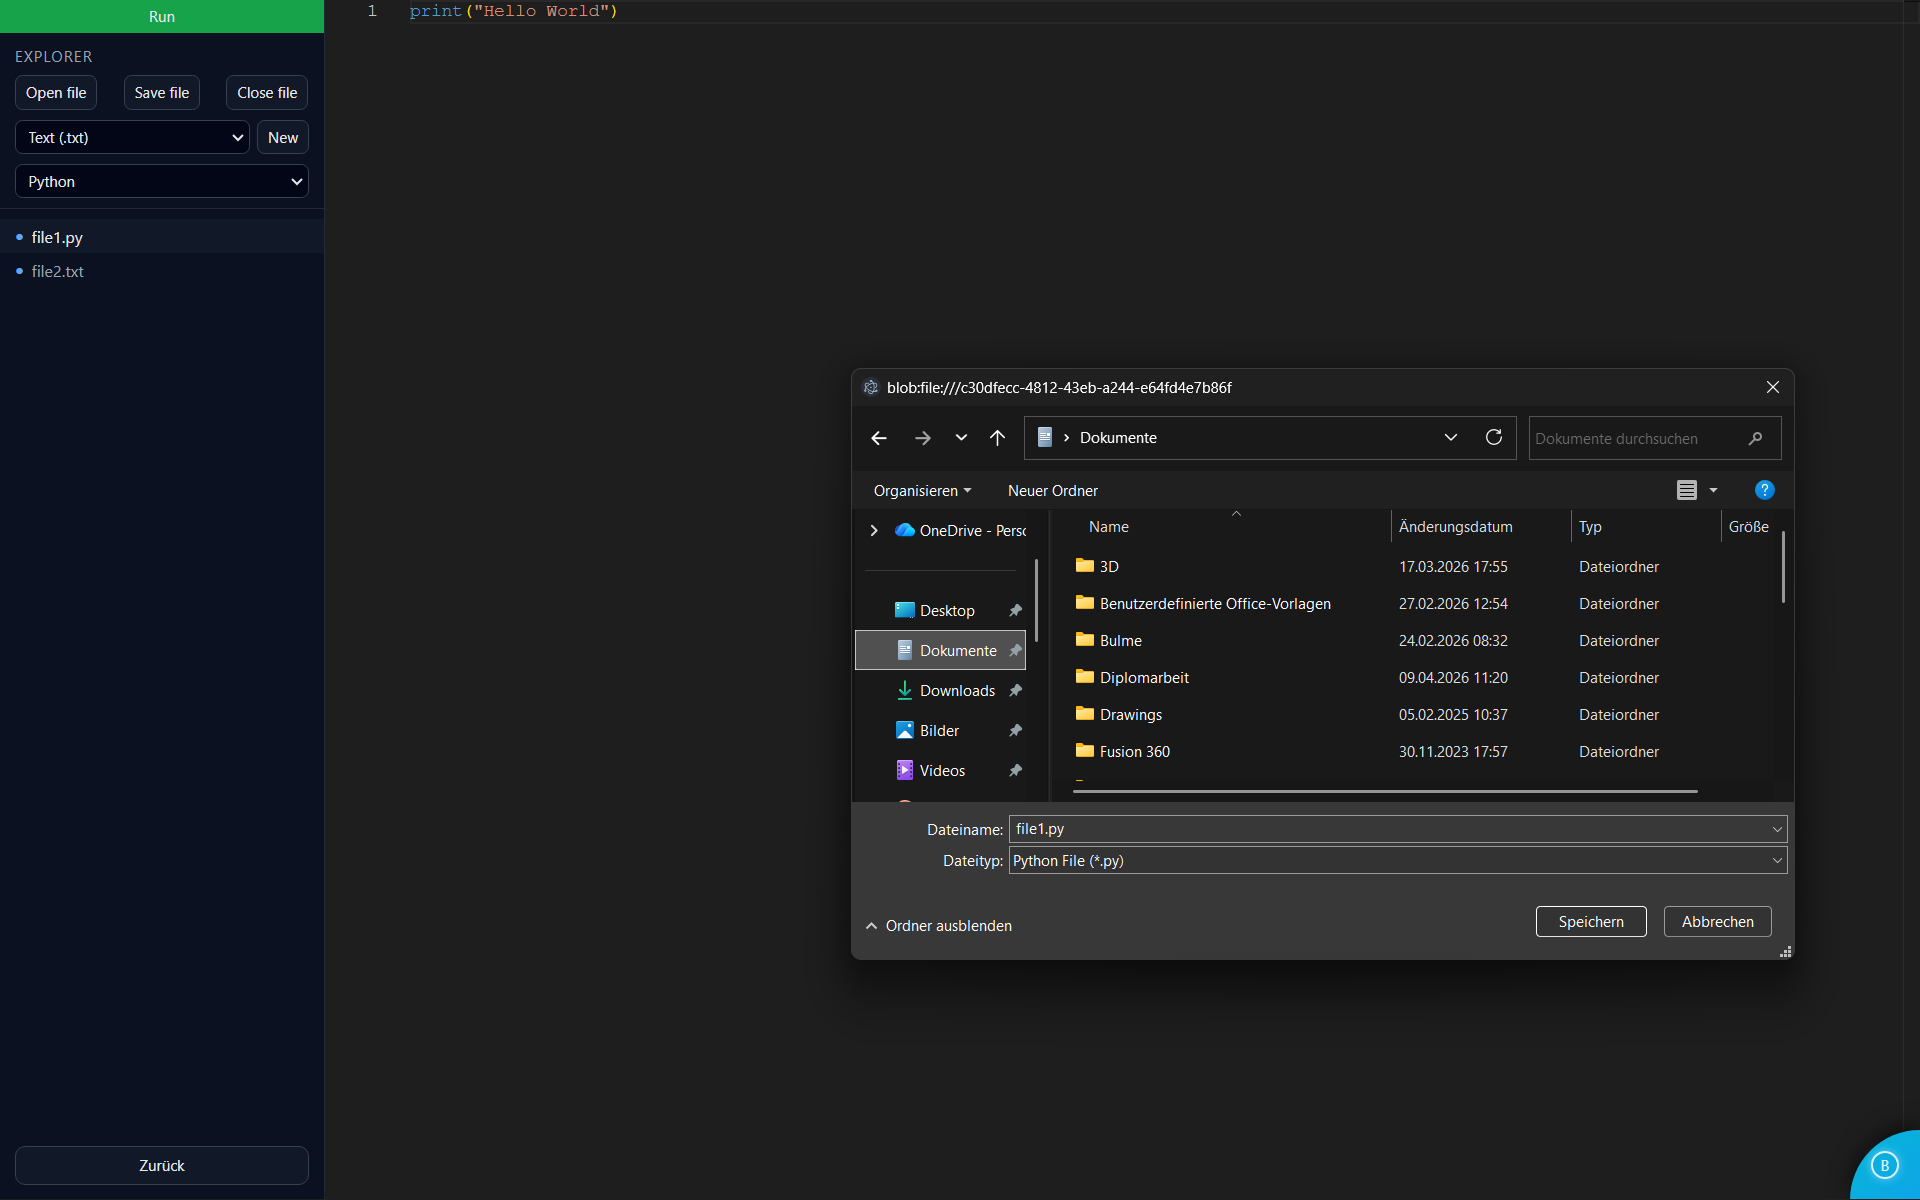
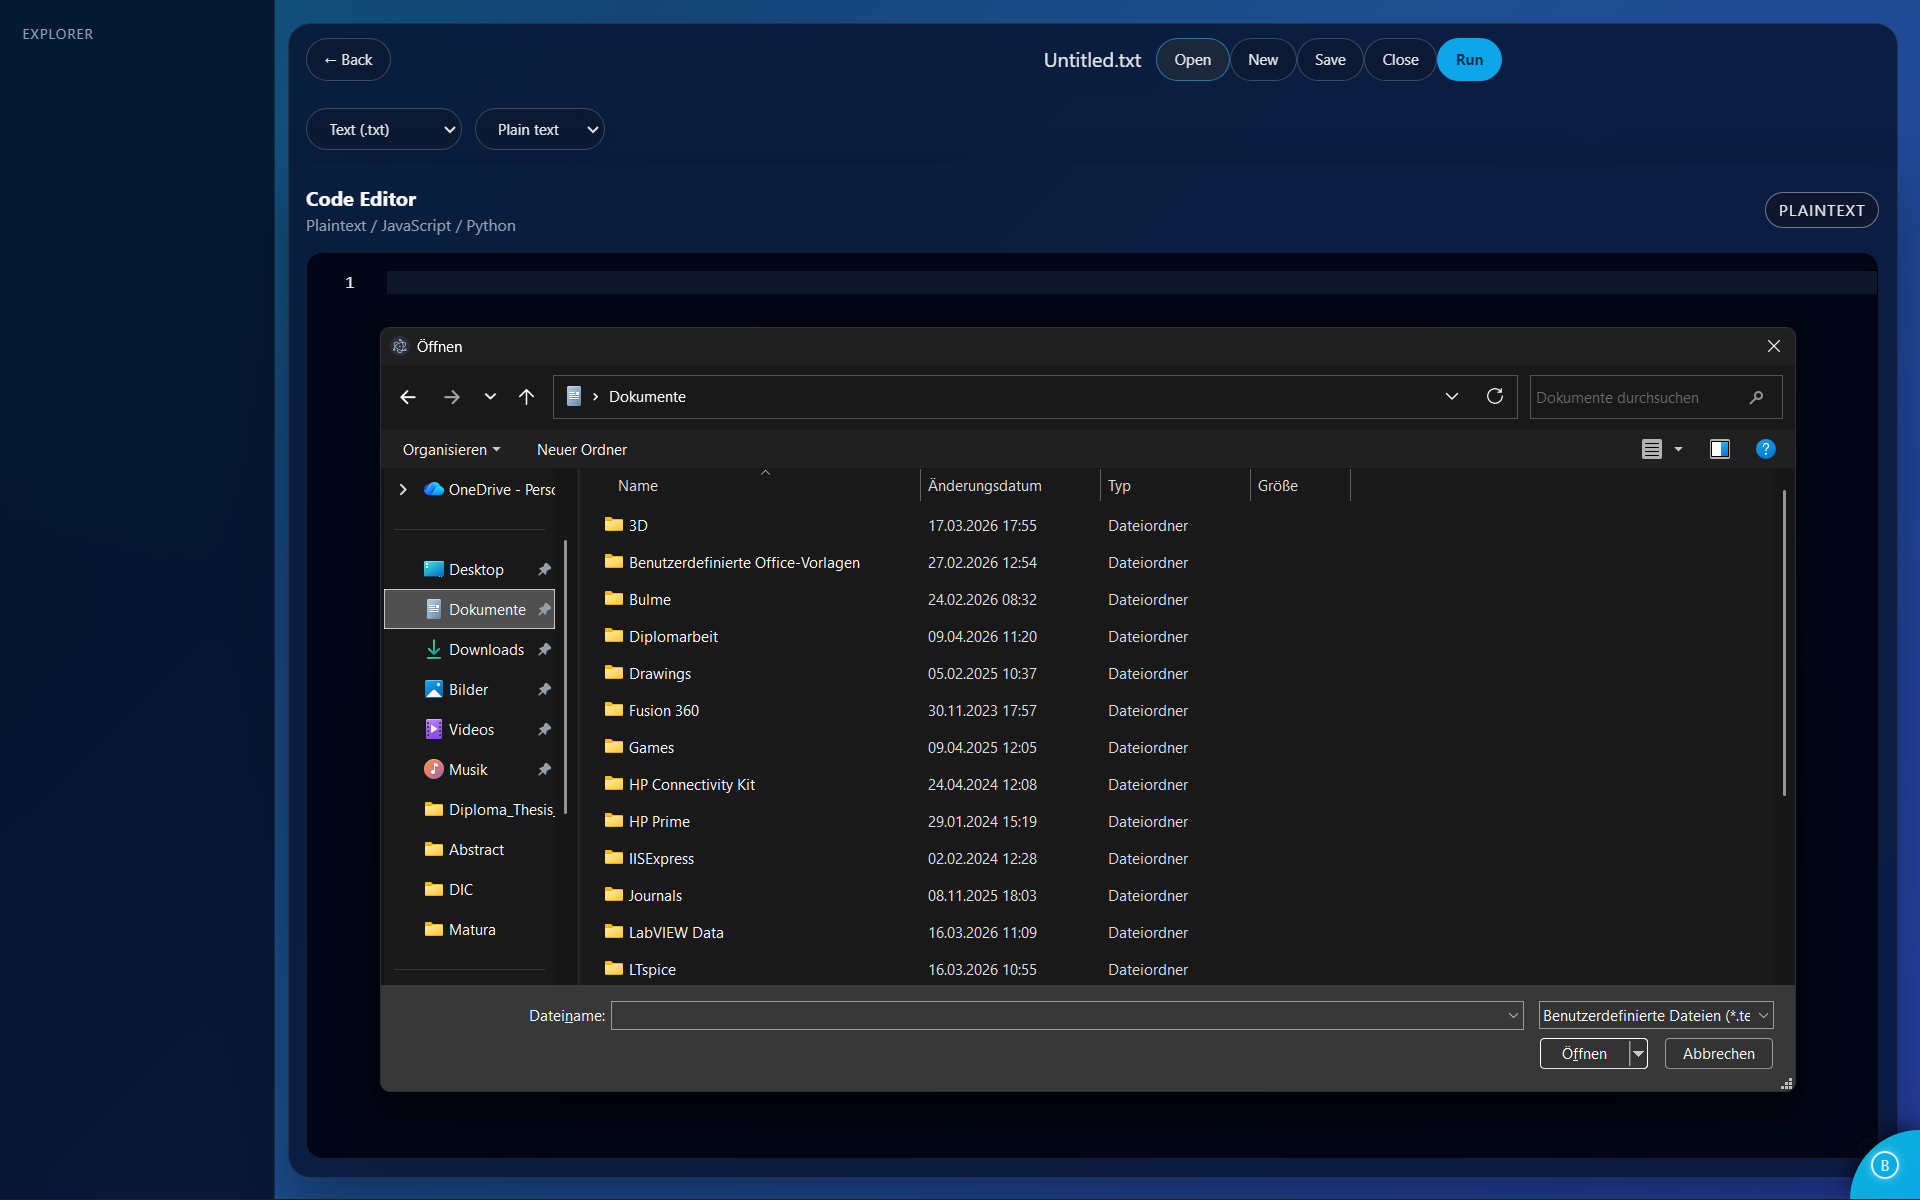
Improvements made

diff --git a/Diploma_Thesis_InteractiveWorkbench/main.tex b/Diploma_Thesis_InteractiveWorkbench/main.tex
@@ -983,6 +983,18 @@ The execution process is isolated from the renderer process, preserving applicat
 This separation between interface and execution logic reinforces modularity and prevents frontend instability from propagating into system-level operations.
 
 \newpage
+\paragraph{Styling}\mbox{} \\
+In terms of styling, the "Text and code editor" was one of the few applications to not support the universal design language provided by our style sheet. 
+This meant that it looked out of order when compared to the other applications in the workbench. 
+That is why Noah, on the 15th of April 2026, decided to overhaul the editor’s design, switching to CSS for style and colouring. 
+As can be seen in the pictures in this section, the new style fits perfectly with applications like the markdwon editor or the music library. 
+All of the changes were done with CSS and to put it simply, what we did was: 
+\begin{itemize}
+  \item Move the canvas in which the text editing happens to the right, centered in the editor shell. 
+  \item Move the buttons to the top and change their style. 
+  \item While keeping the list of files on the left, but changing their style as well. 
+\end{itemize}
+
 \paragraph{Stability, safety, and resource control}\mbox{} \\
 Allowing arbitrary code execution within a desktop environment introduces potential risks regarding performance and system integrity. To address these concerns, multiple control mechanisms were implemented.
 Execution time is limited through a defined timeout mechanism. If a process exceeds the allowed runtime, it is terminated automatically which will be shown to the user via a pop- up window. 
@@ -1005,7 +1017,13 @@ Language support is also something to think about, because the currently support
   \label{fig:IDE and plain text editor}
 \end{figure}
 
-% Notiz: Weißen Hintergrung verwenden
+\begin{figure}[H]
+  \centering
+  \includegraphics[width=1\textwidth]{Running_python.png}
+  \caption{Text- and code- editor running a python script}
+  \label{fig:IDE and plain text editor 2}
+\end{figure}
+
 
 \newpage
 \subsubsection{Markdown editor}
@@ -1284,7 +1302,7 @@ The second version introduced a wave system, escalating difficulty, a score coun
 When all enemies in a formation have been destroyed, a new full formation spawns immediately, providing continuous gameplay. The horizontal movement speed of the enemy formation increases by 0.5 per completed wave, meaning each successive wave is perceptibly faster and more demanding. Enemy speed is stored in a useRef so that it accumulates reliably across waves without being inadvertently reset by React re-renders. 
 
 The score awards 100 points per destroyed enemy and is maintained using two parallel variables: a useRef for synchronous, always-current access inside the game loop, and a useState variable for triggering UI updates. This dual ref/state approach was necessary because requestAnimationFrame callbacks close over the state value at the time of their creation, meaning a useState-only approach would produce stale score readings within the loop. 
-
+\newpage
 Game over is triggered when any enemy reaches the player's vertical position, at which point the loop terminates and a semi-transparent overlay is rendered showing the final score and three navigation options: Restart, back to Game Collection, and back to the workbench home screen. A dedicated resetGame() function handles a clean restart by restoring all mutable references and state variables to their initial values, including player position, bullet array, enemy formation, movement speed, and score.
 
 In terms of styling, we opted to render both players and the enemys with rectangular shapes, filled with colour. The player is coloured blue while enemys are coloured green. 
@@ -1295,6 +1313,12 @@ In terms of styling, we opted to render both players and the enemys with rectang
   \caption{Byte Invaders Game}
   \label{fig:Byte Invaders Game}
 \end{figure}
+
+\begin{notebox}
+  As you can see in the image above, the background in every game is set to white to improve readability.
+  This however, is not the default, as the default background color for every game is black. 
+  In each game, there is a button which switches between the light and the dark mode. 
+\end{notebox}
 
 
 \newpage
